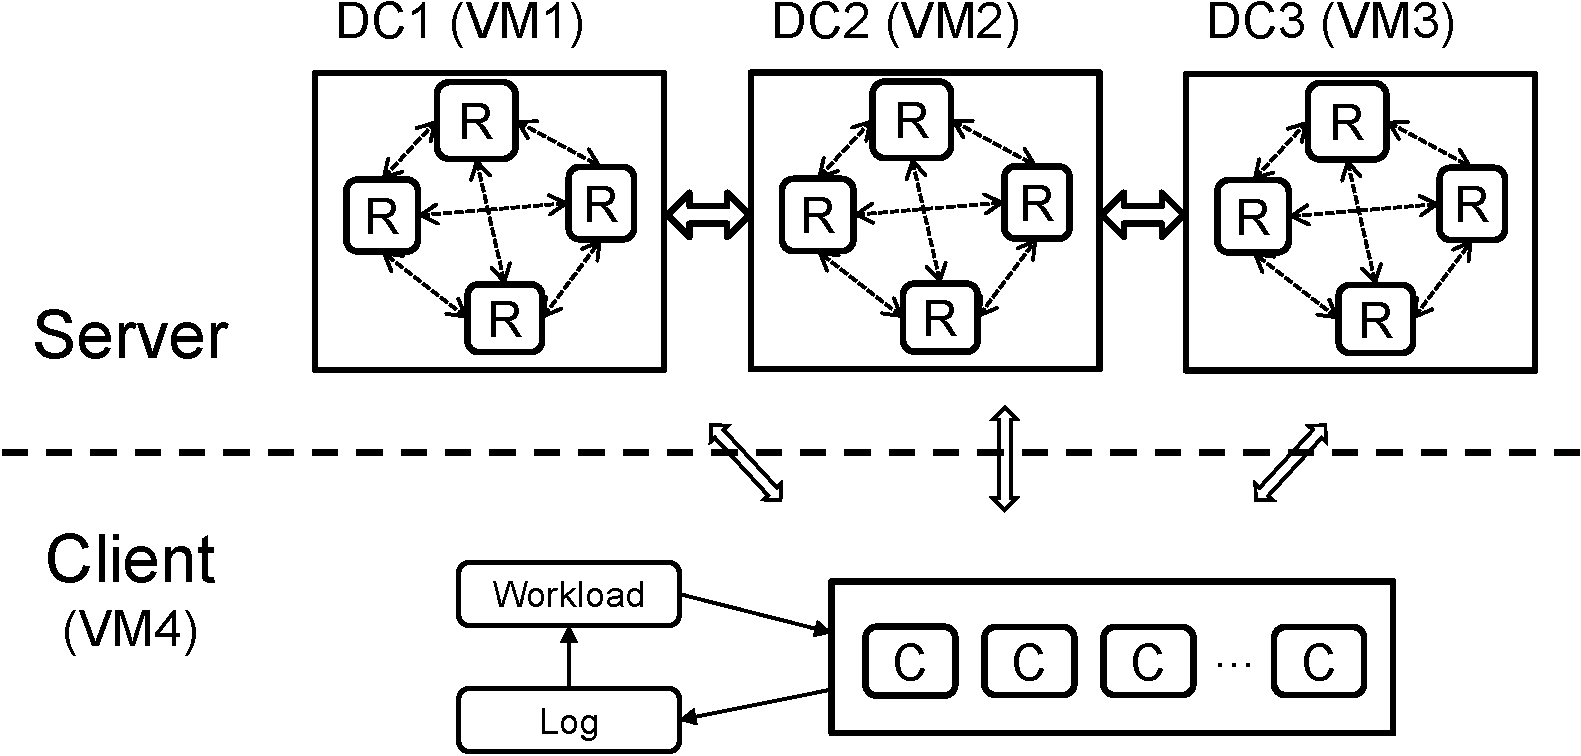
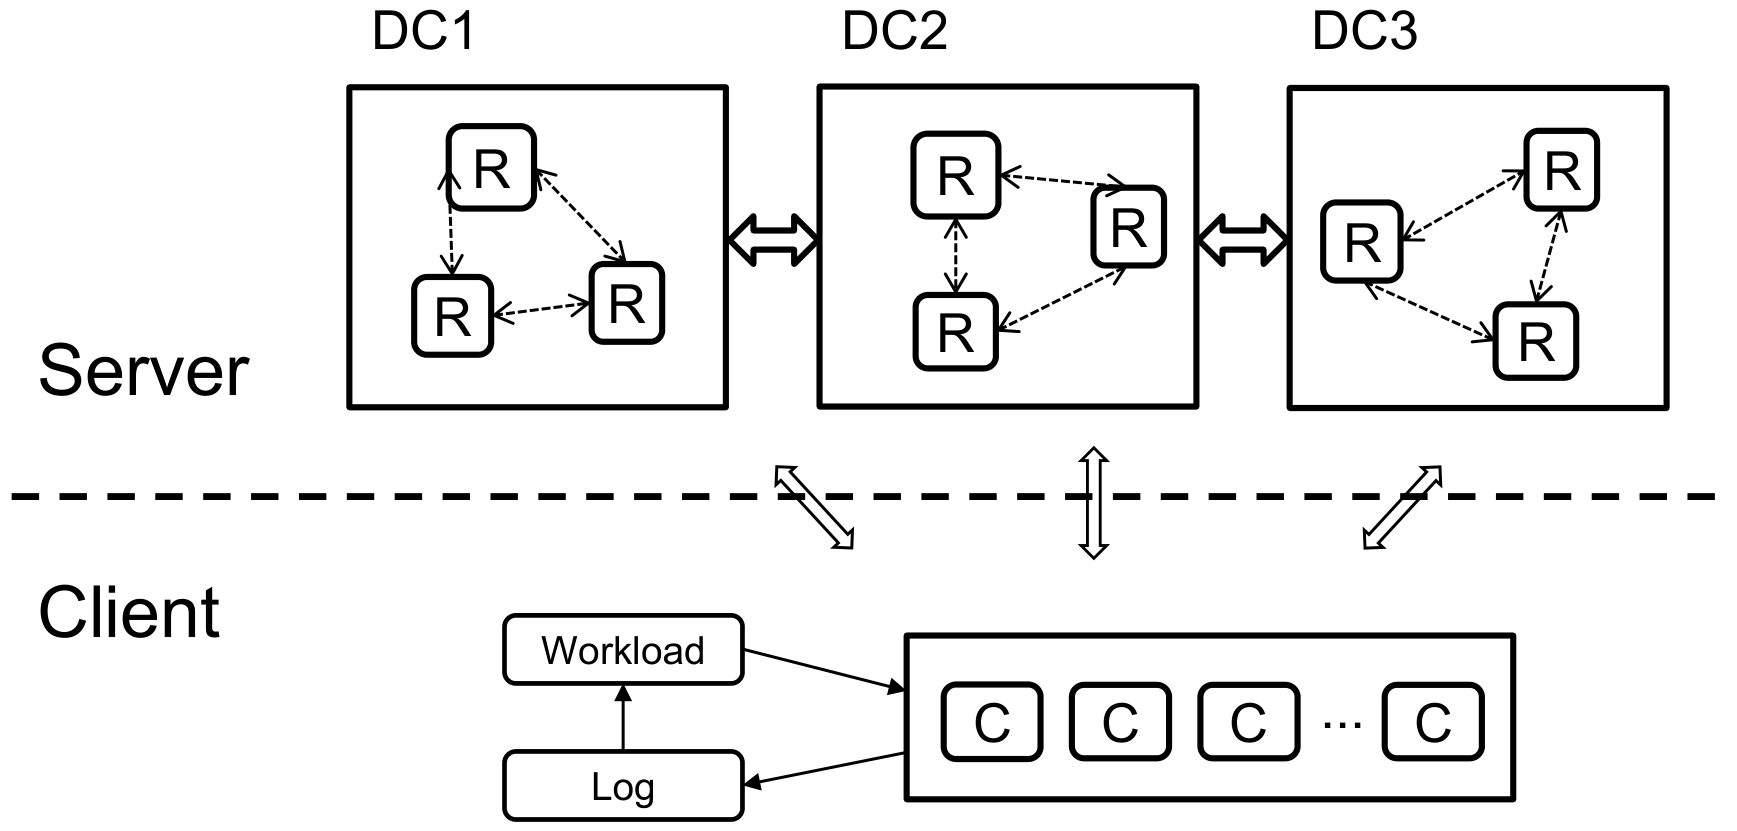
update readme. add crdt-list.

diff --git a/experiment/README.md b/experiment/README.md
@@ -1,43 +1,53 @@
-# CRPQ Experiments
+# CRDT Experiments
 
-Here are the tests and the experiments we do on our CPRQ implementations. There are 3 folders here:
+Here are the tests and the experiments we do on our CRDT implementations. There are 3 folders here:
 
 * *redis_test* : The testing bash scripts and server configuration files. Also used in the experiment.
   * **.sh* : Bash scripts for starting and testing on local machine.
-  * *test.py* : Local test we do to test the correctness of our CRPQ implementations.
-  * *connection.py* : Construct the server part of experiment framework, close it and clean it when the experiment is finished. It use ssh to control the server VMs to start their Redis instances, construct replication among them, and add networking delay between them. When the experiment is finished, close all the server and remove their .rdb and .log files.
-* *bench* : The experiment code. Constructs the experiment, generates and runs operations, get logs and results. 
-  * *constants.h* : The constants of our experiment.
-  * *generator.h* : The generator of CRPQ operations. Including write operations with deliberate concurrent conflicts.
+  * *test.py* : Local test we do to test the correctness of our CRDT implementations.
+  * *connection.py* : Used for experiments using virtual machines. Construct the server part of experiment framework, close it and clean it when the experiment is finished. It use ssh to control the server VMs to start their Redis instances, construct replication among them, and add networking delay between them. When the experiment is finished, close all the server and remove their .rdb and .log files.
+* *bench* : The experiment code. Constructs the experiment, generates and runs operations, get logs and results.
+  * *exp_env.h* : Construct the experiment environment. Start servers, construct replication, setup delays. Shutdown and cleanup when this round finishes.
+  * *exp_runner.h* : Run the exp. Start client threads, calls the generator and periodically read from server to log.
+  * *exp_setting.h* : The setting parameters of this round of experiment.
   * *queue_log.h*, *queue_log.cpp* : Log the execution of the write operations and the results of the read operations during the experiment. Write the results to the *result* folder at the end of the experiment.
-  * *main.cpp* : The entry of the experiment. It calls *redis_test/connection.py* to construct the experiment environment. Then starts multiple Redis client threads for each Redis server. It uses the generator to generate workload to run at the client threads. Finally it lets the log to write the results.
+  * *main.cpp* : The entry of the experiment.
+  * *util.h* : Some utilities: random generator, redis client, redis reply. And the base classes of the CRDT experiments:
+    * cmd : the CRDT command
+    * generator : cmd generation logic
+    * rdt_exp : experiment settings and experiment instance generation
+    * rdt_log : log the CRDT execution and read result, write result to *result* folder
+  * *rpq* and *list* : Actual RPQ and List experiment folder. They extend the base classes in *util.h*, and implement the specific CRDT experiment logics.
 * *result* : The results and the data analysis.
-  * *result.py* : Compute the statistics of the result data and draw result figures.
-  * *result.zip* : The result data and figures of our experiment packed in a zip file.
+  * **.py* : The python scripts to compute the statistics of the result data and draw result figures.
 
 ## Experiment Framework
 
 <div align=center><img src="exp-crop.png" width="65%" height="65%"></div>
 
-We use VMware to run 4 virtual machines. VM 1-3 run Ubuntu server 16.04.5 LTS. VM4 runs Ubuntu desktop 16.04.5 LTS. Each of VM 1-3 is deployed with Redis server instances and simulates a data center. VM4 runs all the clients. 
+We run all server nodes and client nodes on a workstation. Logically we divide the Redis servers into 3 data centers. Each data center has 1-5 instances of Redis.
+We achieve this by designating different localhost IPs for different kind of connections (e.g. 127.0.0.1 for client-server connection, 127.0.0.2 for between data center connection, and 127.0.0.3 for within data center connection).
 
-The ips of VM 1-3 are *192.168.188.135*, *192.168.188.136*, *192.168.188.137*. You can see the ip settings in the beginning of *bench/main.cpp* and *redis_test/connection.py*.
-
-The entry of the experiment is *bench/main.cpp*. It will do 30 rounds of experiment for each experiment settings. Each round it will call *redis_test/connection.py* to start new Redis server instances in all the server VMs and set the networking delays. The results will be written in the *results* folder in different subfolders according to different experiment settings and rounds.
+The entry of the experiment is *bench/main.cpp*. It will do the pattern comparison experiment first, and then 16 rounds of environment related experiment for each environment settings.
+The results will be written in the *results* folder in different subfolders according to different CRDTs, experiment settings and rounds.
 
 ## Perform the Experiment
 
-To perform our CRPQ experiments, setup the experiment as shown above. You need to modify the ip settings at the start of *bench/main.cpp* and *redis_test/connection.py* if you want to use other ips for servers. Then start the experiment:
+To perform our CRDT experiments, follow the instructions below. First you need to [compile the CRDT-Redis](../Readme.md#build). You can modify the IP settings at *bench/exp_env.h* if you want to use other IPs for servers. Then start the experiment:
 
-    cd bench
-    make run
+```bash
+cd bench
+make run
+```
 
-After it finished you will get the data in the *result* folder. 
+You need to enter the sudo password for using tc to control message delay.
+
+After it finishes you will get the data in the *result* folder.
 You may then draw figures by (python 3.6 required):
 
-    cd ../result
-    python result.py
+```bash
+cd ../result
+python result.py
+```
 
-Note that there may be some bugged results that are apparently invalid. You may find them by using the according find function in *result/result.py*, and then fix them by use the according fix functions in *bench/main.cpp* accordingly.
-
-For more detail of our implementation, please read the *Performance measurements* section of [the technical report](https://arxiv.org/abs/1905.01403).
+For more details of our implementation and experiment, please read the *Performance measurements* section of [the technical report](https://arxiv.org/abs/1905.01403) and [the article](document/add-win-RPQ.pdf).

diff --git a/README.md b/README.md
@@ -1,20 +1,30 @@
-# Conflict-Free Replicated Priority Queues Based on Redis
+# Conflict-Free Replicated Data Types Based on Redis
 
-[**Add-Win CRPQ**](document/add-win-crpq.pdf) and [**Remove-Win CRPQ**](https://arxiv.org/abs/1905.01403) implementations based on Redis (6.0.5, previously 4.0.8).
+Several Conflict-Free Replicated Data Types (CRDTs) implemented based on Redis(6.0.5).
 
 Things we do for such implementation:
 
 * Enable Redis to replicate in P2P mode.
 * Implement the CRDT framework.
-* Implement Add-Win CRPQ and Remove-Win CRPQ.
+* Implement specific CRDTs according to their algorithms.
 
-For more detail of our implementation, please read the *Performance measurements* section of [the technical report](https://arxiv.org/abs/1905.01403).
+The CRDTs currently implemented:
+
+* Replicated Priority Queue (RPQ)
+  * [Add-Win RPQ](document/add-win-RPQ.pdf)
+  * [Remove-Win RPQ](document/rwf-tr.pdf)
+  * [RWF-RPQ](document/rwf-tr.pdf)
+* List
+  * [Remove-Win List](document/rwf-tr.pdf)
+  * [RWF-List](document/rwf-tr.pdf)
+
+For more details of our implementation, please read the linked article of the CRDTs above. Also you can read the *Performance measurements* section of [the technical report](https://arxiv.org/abs/1905.01403). Note that the **Remove-Win RPQ** in this technical report corresponds to the **RWF-RPQ** here.
 
 ## Build
 
 Our modified Redis is in folder *redis-6.0.5*. Please build it in the default mode:
 
-```
+```bash
 cd redis-6.0.5
 make
 sudo make install
@@ -22,7 +32,7 @@ sudo make install
 
 ## Test
 
-In the folder *experiment/redis_test* there are configuration files and scripts for testing our modified Redis and CRPQ implementations. By default, the test will start 5 Redis server instances on the local machine, listening on port 6379, 6380, 6381, 6382 and 6383. You may choose to start some of these server instances by using parameters when you run the scripts.
+In the folder *experiment/redis_test* there are scripts for testing our modified Redis and RPQ implementations. By default, the test will start 5 Redis server instances on the local machine, listening on port 6379, 6380, 6381, 6382 and 6383. You may choose to start some of these server instances by using parameters when you run the scripts.
 
 Here we focus on 5 scripts:
 
@@ -36,46 +46,61 @@ Here we show an example to test our implementation using all the 5 Redis server 
 
 Firstly go to the *experiment/redis_test*, **start** the Redis server instances and **construct P2P replication** among them.
 
-```
+```bash
 cd experiment/redis_test
 ./server.sh
 ./construct_replication.sh
 ```
 
-Now you can start redis clients to connect to Redis servers and do CRPQ read/write operations. Here shows **start a client** to connect one Redis server.
+Now you can start redis clients to connect to Redis servers and do RPQ read/write operations. Here shows **start a client** to connect one Redis server.
 
-```
+```bash
 ./client.sh <server_port>
 ```
 
 When you've finished testing, you may **close** the Redis server instances.
 
-```
+```bash
 ./shutdown.sh
 ```
 
 Finally, you can **remove** the Redis database files (.rdb files) and log files (.log files).
 
-```
+```bash
 ./clean.sh
 ```
 
 To further redo the experiment of our work our please check [here](experiment/Readme.md).
 
-## CRPQ operations
+## CRDT Operations
 
-There are 5 operations of **Add-Win CRPQ** implemented in our modified Redis:
+Different implementations of the same type of CRDT offer the same operations for users. We use **[type][op]** to name our CRDT operations. The operations name contains of an implementation type prefix and an operation type suffix. For example, the name of operation of RWF-RPQ to add one element is **rwfzadd**, where **rwf** is the implementation type prefix and **zadd** is the operation type suffix.
 
-* **ozadd Q E V** : Add a new element *E* into the priority queue *Q* with initial value *V*.
-* **ozincby Q E I** : Add the increment *I* to the value of element *E* in the priority queue *Q*.
-* **ozrem Q E** : Remove element *E* from the priority queue *Q*.
-* **ozscore Q E** : Read the value of element *E* from the priority queue *Q*.
-* **ozmax Q** : Read the element with the largest value in the priority queue *Q*. Returns the element and its value.
+### RPQ operations
 
-There are 5 operations of **Remove-Win CRPQ** implemented in our modified Redis:
+The **[type]** prefix of different RPQs are:
 
-* **rzadd Q E V** : Add a new element *E* into the priority queue *Q* with initial value *V*.
-* **rzincby Q E I** : Add the increment *I* to the value of element *E* in the priority queue *Q*.
-* **rzrem Q E** : Remove element *E* from the priority queue *Q*.
-* **rzscore Q E** : Read the value of element *E* from the priority queue *Q*.
-* **rzmax Q** : Read the element with the largest value in the priority queue *Q*. Returns the element and its value.
+* Add-Win RPQ : **o**
+* Remove-Win RPQ : **r**
+* RWF-RPQ : **rwf**
+
+The operations of RPQs are:
+
+* **[type]zadd Q E V** : Add a new element *E* into the priority queue *Q* with initial value *V*.
+* **[type]zincby Q E I** : Add the increment *I* to the value of element *E* in the priority queue *Q*.
+* **[type]zrem Q E** : Remove element *E* from the priority queue *Q*.
+* **[type]zscore Q E** : Read the value of element *E* from the priority queue *Q*.
+* **[type]zmax Q** : Read the element with the largest value in the priority queue *Q*. Returns the element and its value.
+
+### List operations
+
+The **[type]** prefix of different Lists are:
+
+* Remove-Win List : **r**
+* RWF-List : **rwf**
+
+The operations of Lists are:
+
+* **[type]linsert L prev id content font size color property** : Add a new element *id* after *prev* into the list *L*, with the content *content*, and the initial properties *font* *size* *color* and *property*(bitmap that encodes bold, italic and underline). If *prev* is "null", it means insert the element at the beginning of the list. If *prev* is "readd", it means to re-add the element that is previously added and then removed, and restore its position.
+* **[type]lupdate L id type value** : Update the *type* property with *value* for element *id* in list *L*.
+* **[type]lrem L id** : Remove element *id* from the list *L*.
